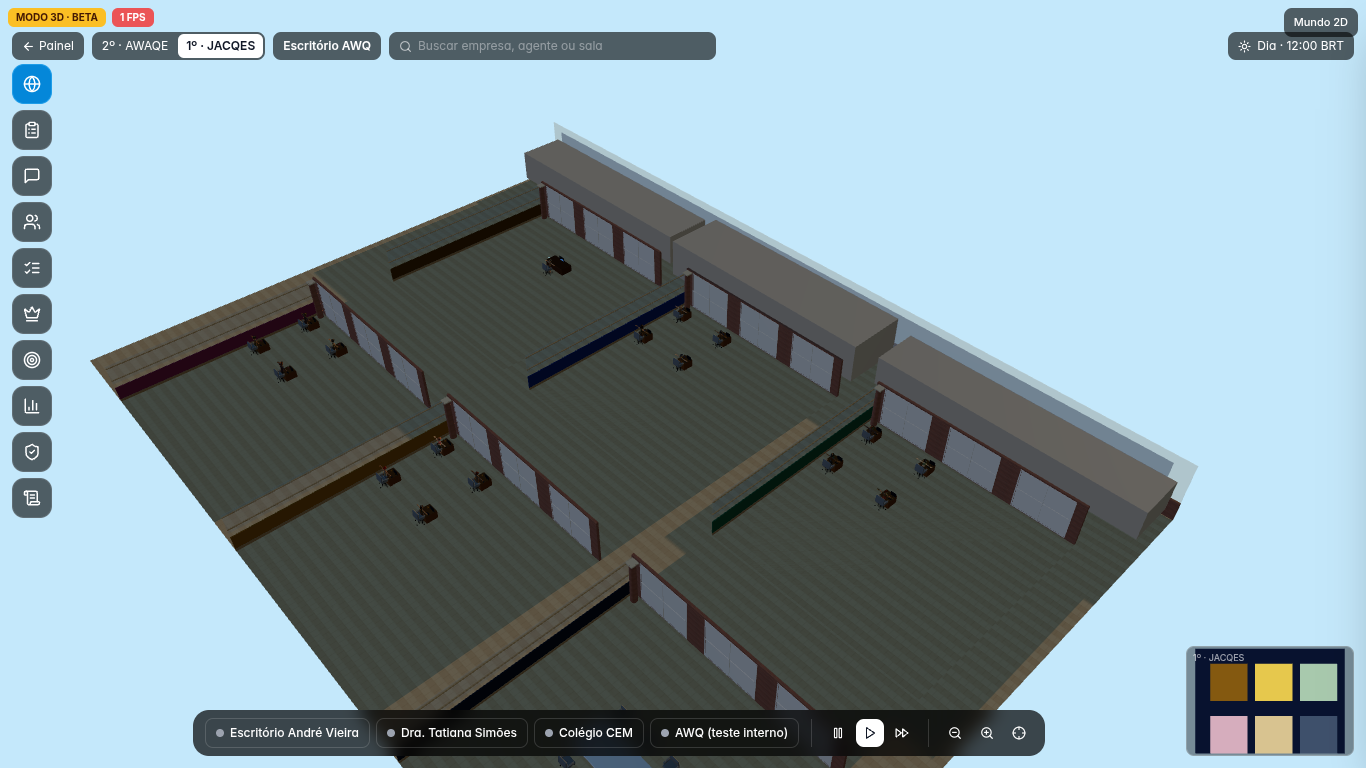
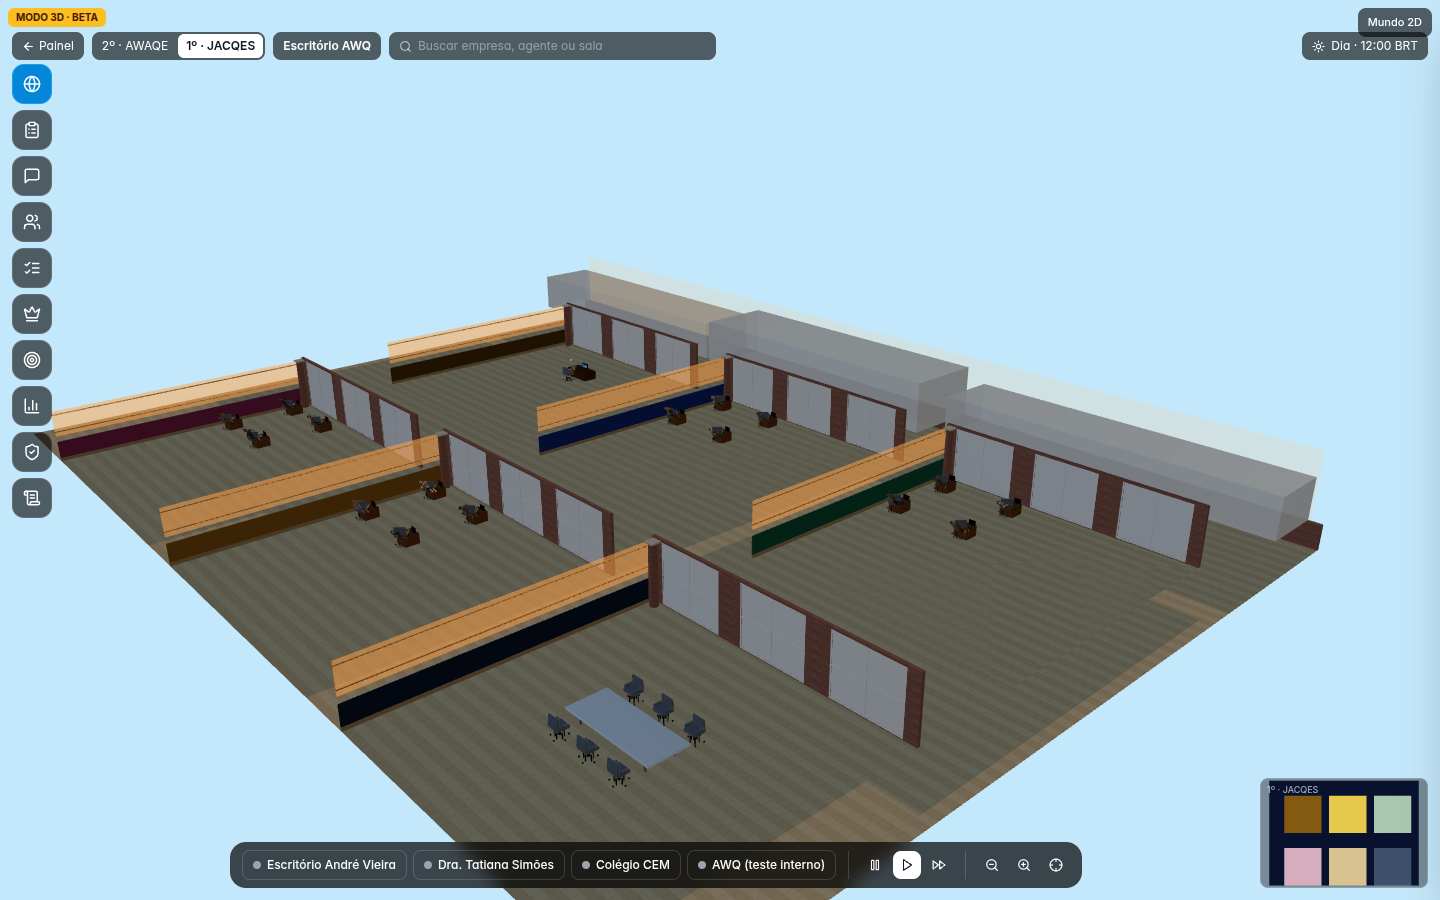
fix(office): pele perfurada nos volumes e vidro âmbar no entardecer
Os três volumes sobem em balanço e usam a tela furada como pele, em vez de uma caixa opaca na frente. O vidro é meshBasic sem tone mapping, e o céu interpola até #1f4f8a entre 18h e 20h.

diff --git a/components/office/OfficeGame3D.tsx b/components/office/OfficeGame3D.tsx
@@ -477,7 +477,10 @@ function ParedeExterna({ comprimento, hora }: { comprimento: number; hora: numbe
   const janelaTopo = 2.2;
   const topo = 2.35;
   const janelaH = janelaTopo - janelaBase;
-  const ceuJanela = ceu(hora);
+  const luz = luzDoDia(hora);
+  const entardecer = luz < 0.55;
+  const ceuAtual = ceu(hora);
+  const ceuJanela = entardecer ? { topo: "#ffbf70", base: "#e07a32" } : ceuAtual;
   return (
     <group>
       <MalhaTijolo args={[comprimento, janelaBase, 0.12]} position={[comprimento / 2, janelaBase / 2, 0]} />
@@ -1111,9 +1114,19 @@ function CameraRig({
   );
 }
 
+/** Entre 18h e 20h o céu vira um degradê de entardecer (topo azul, base âmbar) e volta. */
+function ceuEntardecer(hora: number): { topo: string; base: string } {
+  const atual = ceu(hora);
+  if (hora <= 18 || hora >= 20) return atual;
+  const t = hora < 19 ? hora - 18 : 20 - hora;
+  const topo = new THREE.Color(atual.topo).lerp(new THREE.Color("#1f4f8a"), t);
+  const base = new THREE.Color(atual.base).lerp(new THREE.Color("#e8923a"), t);
+  return { topo: `#${topo.getHexString()}`, base: `#${base.getHexString()}` };
+}
+
 function Iluminacao({ hora }: { hora: number }) {
   const l = luzDoDia(hora);
-  const ceuAtual = hora >= 18 && hora < 20 ? { topo: "#1f4f8a", base: "#1f4f8a" } : ceu(hora);
+  const ceuAtual = ceuEntardecer(hora);
   const sol = useRef<THREE.DirectionalLight>(null);
   const alvoSol = useRef<THREE.Object3D>(null);
   useEffect(() => {
@@ -1166,12 +1179,32 @@ function ConfigRenderer() {
  * andar — dá a luz quente entrando pela janela pedida, visível na visão geral do mundo. */
 function Fachada({ largura, hora }: { largura: number; hora: number }) {
   const tijolo = useMemo(() => mapaTijolo(largura, 1), [largura]);
-  const furos = useMemo(() => texturaPerfurada(), []);
+  useEffect(() => () => tijolo.dispose(), [tijolo]);
+  const peles = useMemo(() => {
+    return [2.8, 3.4, 2.6].map((profundidade) => {
+      const alpha = texturaPerfurada().clone();
+      alpha.wrapS = alpha.wrapT = THREE.RepeatWrapping;
+      alpha.repeat.set(Math.max(profundidade, 2), 4);
+      const depth = new THREE.MeshDepthMaterial({
+        depthPacking: THREE.RGBADepthPacking,
+        alphaMap: alpha,
+        alphaTest: 0.5,
+      });
+      return { alpha, depth };
+    });
+  }, []);
+  useEffect(() => () => {
+    for (const p of peles) {
+      p.alpha.dispose();
+      p.depth.dispose();
+    }
+  }, [peles]);
   const l = luzDoDia(hora);
+  const baseY = 1.12;
   const volumes = [
-    { id: "esquerda", x: largura * 0.17, y: 1.35, w: largura * 0.32, h: 1.8, d: 2.8 },
-    { id: "centro", x: largura * 0.5, y: 1.55, w: largura * 0.3, h: 2.2, d: 3.4 },
-    { id: "direita", x: largura * 0.83, y: 1.25, w: largura * 0.32, h: 1.65, d: 2.6 },
+    { id: "esquerda", x: largura * 0.17, w: largura * 0.32, h: 1.8, d: 2.8 },
+    { id: "centro", x: largura * 0.5, w: largura * 0.3, h: 2.2, d: 3.4 },
+    { id: "direita", x: largura * 0.83, w: largura * 0.32, h: 1.65, d: 2.6 },
   ];
   return (
     <group>
@@ -1179,25 +1212,27 @@ function Fachada({ largura, hora }: { largura: number; hora: number }) {
         <boxGeometry args={[largura, 1, 0.12]} />
         <meshStandardMaterial map={tijolo} roughness={0.9} />
       </mesh>
-      <mesh position={[largura / 2, 2.15, 0]}>
-        <boxGeometry args={[largura, 2.3, 0.04]} />
-        <meshStandardMaterial color="#ffbf70" emissive="#ff9a3c" emissiveIntensity={0.9 * (1 - l)} transparent opacity={0.22} roughness={0.2} />
-      </mesh>
-      <mesh position={[largura / 2, 1.85, 0.1]}>
-        <planeGeometry args={[largura * 0.96, 2.15]} />
-        <meshStandardMaterial
-          color="#eeeeea"
-          alphaMap={furos}
+      <mesh position={[largura / 2, 2.35, -0.04]}>
+        <planeGeometry args={[largura * 0.98, 2.7]} />
+        <meshBasicMaterial
+          color="#ffbf70"
           transparent
-          metalness={0.15}
-          roughness={0.55}
-          side={THREE.DoubleSide}
+          opacity={0.18 + 0.72 * (1 - l)}
+          toneMapped={false}
+          depthWrite={false}
         />
       </mesh>
-      {volumes.map((v) => (
-        <mesh key={v.id} position={[v.x, v.y, 0.08 + v.d / 2]} castShadow receiveShadow>
+      {volumes.map((v, i) => (
+        <mesh key={v.id} position={[v.x, baseY + v.h / 2, 0.22 + v.d / 2]} castShadow customDepthMaterial={peles[i].depth}>
           <boxGeometry args={[v.w, v.h, v.d]} />
-          <meshStandardMaterial color="#d9cbb8" roughness={0.72} />
+          <meshStandardMaterial
+            color="#f3efe6"
+            alphaMap={peles[i].alpha}
+            alphaTest={0.5}
+            roughness={0.62}
+            metalness={0.04}
+            side={THREE.DoubleSide}
+          />
         </mesh>
       ))}
     </group>
